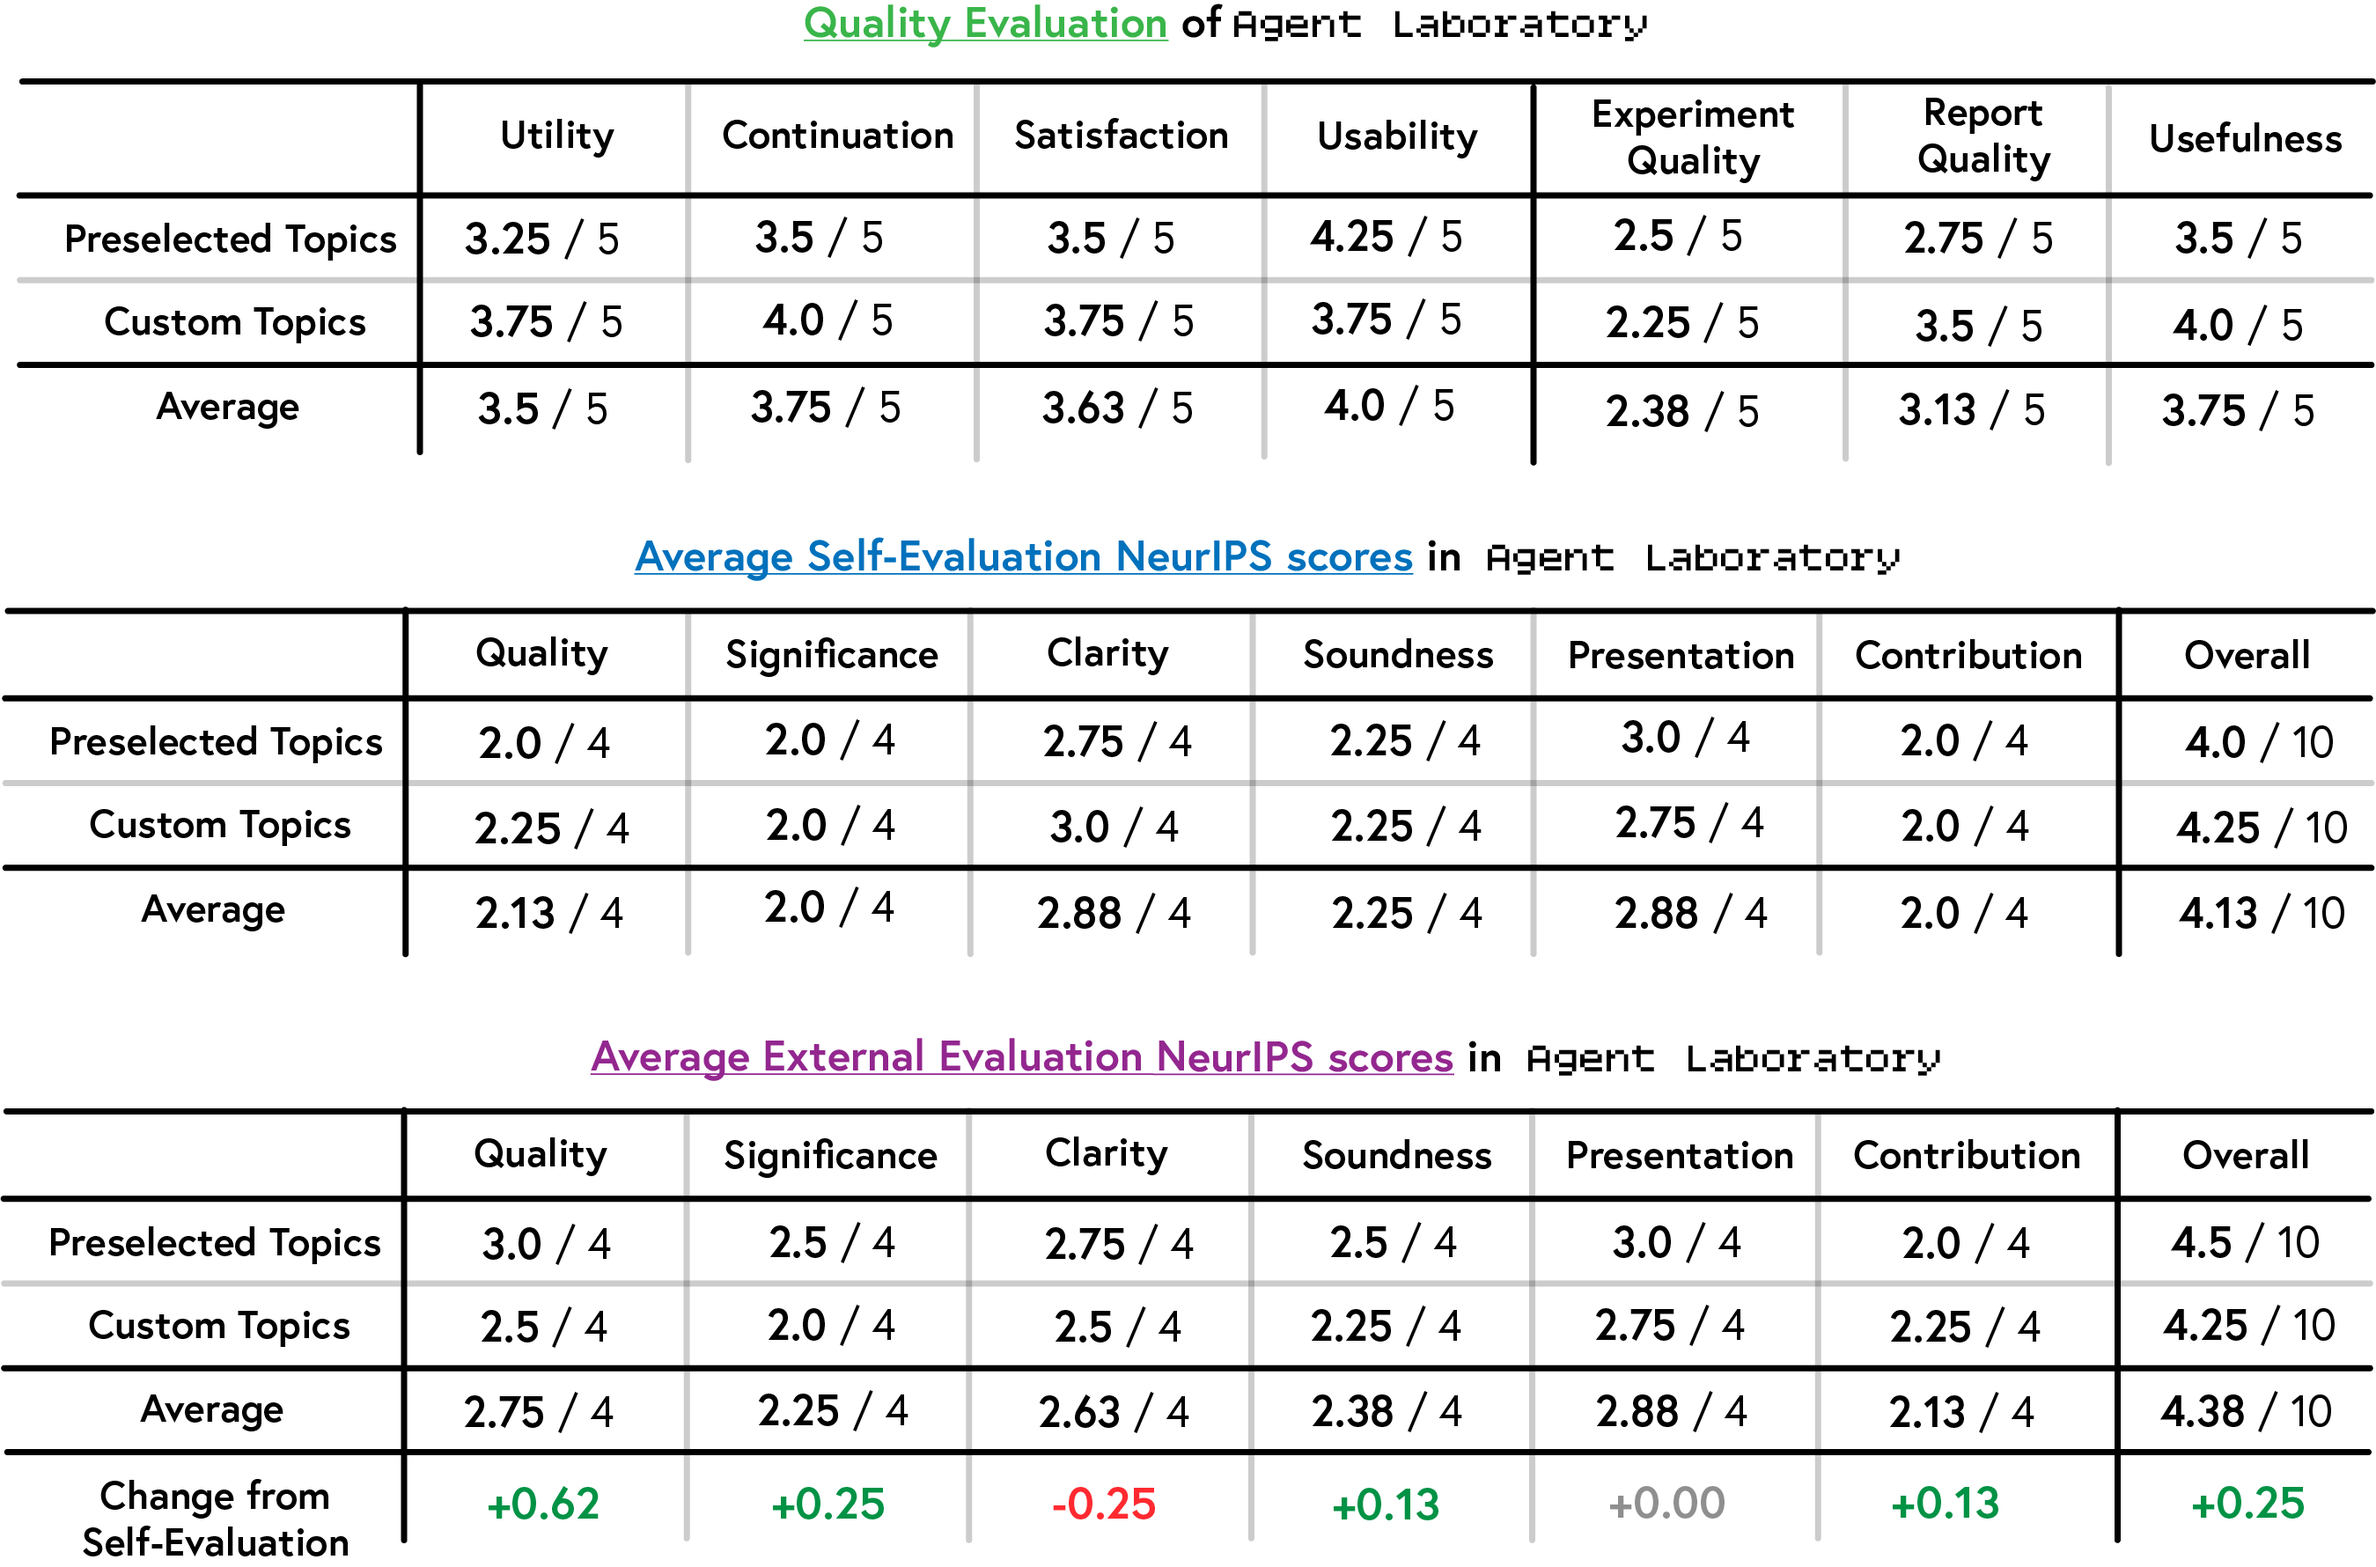
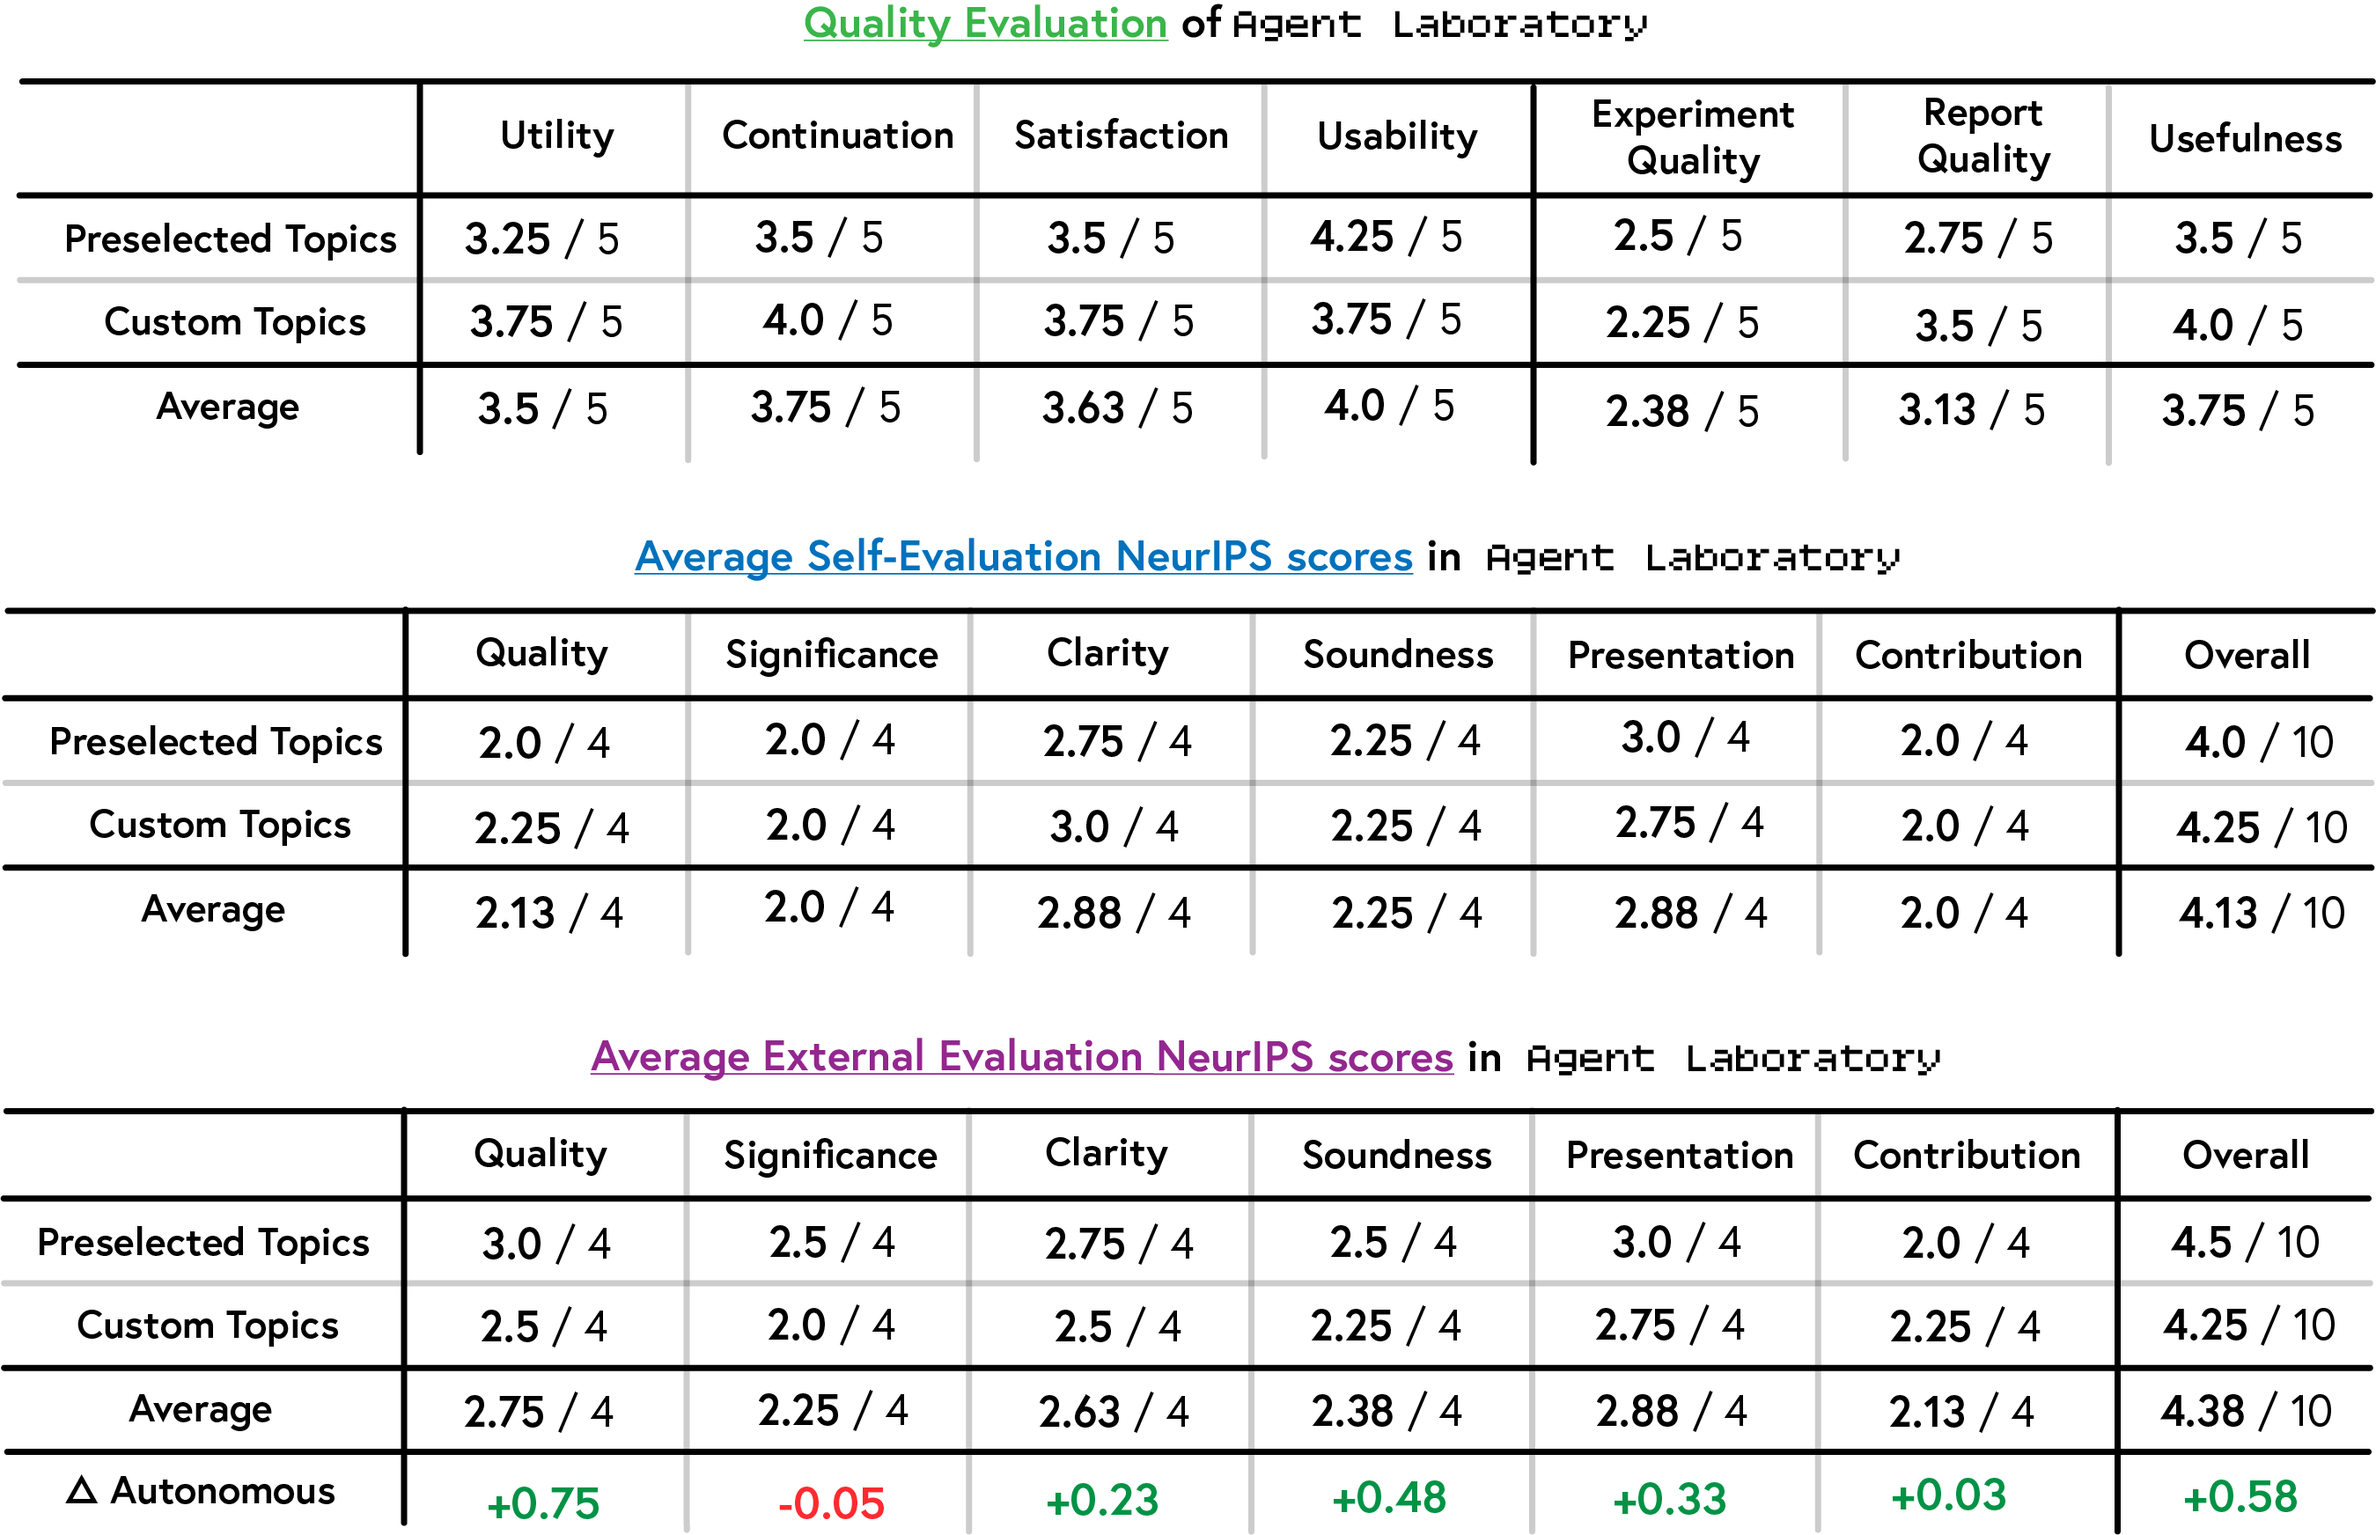
updates

diff --git a/index.html b/index.html
@@ -214,7 +214,7 @@
 
           <h4 class="title is-4" style="margin-bottom: 1rem;">Co-Pilot Quality</h4>
           <p style="padding-bottom: 8px;">
-            We next evaluate Agent Laboratory in co-pilot (human-guided) mode. Researchers rated the tool on utility, continuation likelihood, satisfaction, and usability, scoring it 3.5/5, 3.75/5, 3.63/5, and 4.0/5, respectively, across custom and preselected topics. Custom topics generally received higher scores, particularly in utility (+0.5), continuation (+0.5), and satisfaction (+0.25), though usability was rated marginally lower (-0.5). In assessing paper quality, self-evaluation scores improved compared to the autonomous mode, with an average overall score increase from 3.8/10 to 4.13/10. Gains were observed in quality (+0.13), clarity (+0.48), soundness (+0.35), and presentation (+0.33), though decreases were noted in significance (-0.3) and contribution (-0.1). External evaluation scores exceeded self-assessments, averaging 4.38/10 compared to 4.13/10. Improvements were particularly evident in quality (+0.62), significance (+0.25), and overall scores (+0.25). However, clarity scores decreased (-0.25), indicating potential articulation issues. Preselected topics performed better in external evaluations, contrasting with the higher scores custom topics received in self-assessments. 
+            We next evaluate Agent Laboratory in co-pilot (human-guided) mode. Researchers rated the tool on utility, continuation likelihood, satisfaction, and usability, scoring it 3.5/5, 3.75/5, 3.63/5, and 4.0/5, respectively, across custom and preselected topics. Custom topics generally received higher scores, particularly in utility (+0.5), continuation (+0.5), and satisfaction (+0.25), though usability was rated marginally lower (-0.5). Preselected topics performed better in external evaluations, contrasting with the higher scores custom topics received in self-assessments. In assessing paper quality, co-pilot scores improved compared to the autonomous mode, with an average overall score increase from 3.8/10 to 4.38/10 (+0.58). Gains were observed in quality (+0.75), clarity (+0.23), soundness (+0.48), and presentation (+0.33), though minimal changes or decreases were noted in significance (-0.05) and contribution (+0.03).
           </p>
 
           <div style="text-align: center;">
